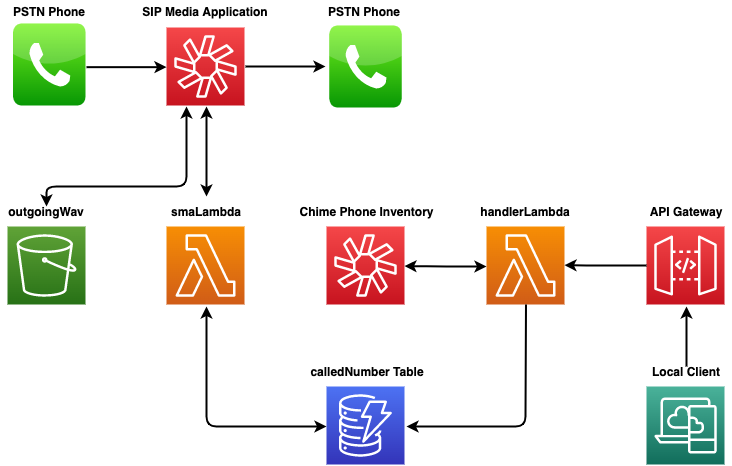
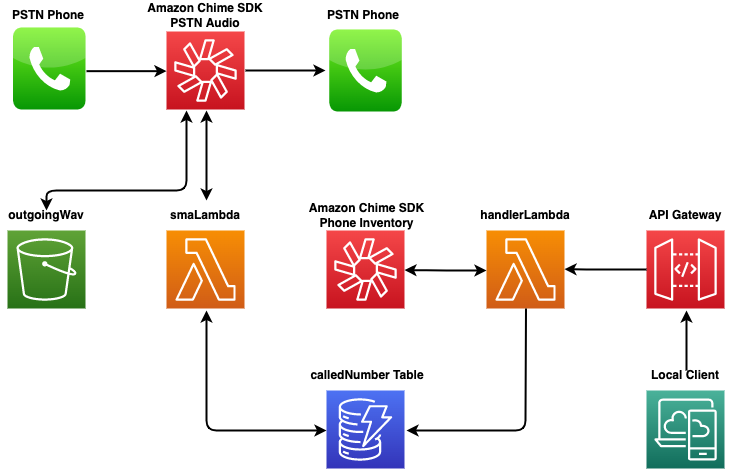
Minor documentation changes

diff --git a/utils/createWav.py b/utils/createWav.py
@@ -10,14 +10,14 @@ def create_polly (polly_text, file_name):
     response = polly.synthesize_speech(
         OutputFormat='pcm',
         Text = polly_text,
-        SampleRate = '8000',
+        SampleRate = '16000',
         VoiceId = 'Joanna'
     )    
 
     if "AudioStream" in response:
         output_wav = '../wav_files/' + file_name + '.wav'
         with wave.open(output_wav, 'wb') as wav_file:
-            wav_file.setparams((1, 2, 8000, 0, 'NONE', 'NONE'))
+            wav_file.setparams((1, 2, 16000, 0, 'NONE', 'NONE'))
             wav_file.writeframes(response['AudioStream'].read())
 
     return output_wav

diff --git a/README.md b/README.md
@@ -1,6 +1,6 @@
-# Call Forwarding with Amazon Chime SIP Media Application
+# Call Forwarding with Amazon Chime SDK PSTN Audio service
 
-This demo will build and configure several services within AWS so that you can forward calls using a Chime SIP Media Application, more specifically the [CallAndBridge](https://docs.aws.amazon.com/chime/latest/dg/call-and-bridge.html) action. A local client can be used to manage the forwarding of numbers.
+This demo will build and configure several services within AWS so that you can forward calls using the Amazon Chime SDK, more specifically the [CallAndBridge](https://docs.aws.amazon.com/chime/latest/dg/call-and-bridge.html) action. A local React client can be used to manage the forwarding of numbers.
 
 ## Overview
 
@@ -33,29 +33,29 @@ This demo will build and configure several services within AWS so that you can f
 
 ## Description
 
-This deployment will build everything required to forward calls and change numbers between different Amazon Chime Product Types. Phone Numbers within Amazon Chime Phone Inventory can have a Product Type of `SipMediaApplicationDialIn` or `VoiceConnector`. The local client can update the Product Type of the phone numbers in the Phone Inventory and update a DynanamoDB table with call forwarding information. A Lambda function associated with the SIP Media Application is used to forward numbers using the [CallandBridge](https://docs.aws.amazon.com/chime/latest/dg/call-and-bridge.html) action.
+This deployment will build everything required to forward calls and change numbers between different Amazon Chime Product Types. Phone Numbers within Amazon Chime Phone Inventory can have a Product Type of `SipMediaApplicationDialIn` or `VoiceConnector`. The local client can update the Product Type of the phone numbers in the Phone Inventory and update a DynanamoDB table with call forwarding information. A Voice application Lambda function written in Python is used to forward numbers using the [CallandBridge](https://docs.aws.amazon.com/chime/latest/dg/call-and-bridge.html) action.
 
 ## Resources Created
 
-- handlerLambda - A Python Lambda that updates the Product Type of numbers in the Amazon Chime Phone Inventory and a DynamoDB. This is fronted by an API Gateway.
-- smaLambda - A Python Lambda that is associated with a SIP Media Application used to forward calls using the CallandBridge action
-- calledNumber Table - A DynamoDB table used to track where numbers should be forwarded to. Updated from the local client and queried by the smaLambda
-- outgoingWav Bucket - S3 bucket to store wav files for playing customized messages
-- SIP Media Application - Chime SMA used to forward calls. Associated with smaHandler Lambda
-- SIP Media Application rule - Chime SMA Rule used to connect the provisioned phone number to the SIP Media Application
-- Voice Connector - Chime Voice Connector used to demonstrate changing Product Types
-- Phone Number - a number provisioned to use with the SIP Media Application rule
+- handlerLambda - A Lambda function written in Python that updates the Product Type of numbers in the Amazon Chime Phone Inventory and adds and removes numbers the DynamoDB table. This is fronted by an API Gateway. 
+- smaLambda - A Lambda function written in Python that is associated with the Amazon Chime SDK PSTN Audio service and used to forward calls using the CallandBridge action
+- calledNumber - A DynamoDB table used to store where numbers should be forwarded to. Managed by the local client and queried by smaLambda function during call setup
+- outgoingWav – An S3 bucket to store wav files for playing customized messages
+- PSTN Audio – Amazon Chime PSTN service used to forward calls. Associated with the smaHandler Lambda function
+- SIP Media Application rule – Amazon Chime SIP Media Application Rule used to route the provisioned phone number to the smaLambda function
+- Voice Connector - Chime Voice Connector used to demonstrate changing Product Types of the phone number
+- Phone Number - A number provisioned to use with the SIP Media Application rule
 
 ## Additional Resources
 
 - utils\createWav.py - Python script to create wav files using Polly
-- wav_files\\\* - wav files uploaded to outgoingWav bucket for use with SMA
+- wav_files\\\* - wav files uploaded to outgoingWav bucket for use with a PSTN Audio voice application
 
 ## Operation
 
 ### Background
 
-You should familiarize yourself with the SipMediaApplication concepts and how one would build a Lambda to control the flow of a call. You can read more here: https://docs.aws.amazon.com/chime/latest/dg/build-lambdas-for-sip-sdk.html
+You can learn more about how to build PSTN-enabled voice applications in the Amazon Chime SDK by consulting our [documentation](https://docs.aws.amazon.com/chime/latest/dg/build-lambdas-for-sip-sdk.html).
 
 ### Phone Number Product Types
 
@@ -65,17 +65,17 @@ Within Amazon Chime, a phone number must have one of three Product Types:
 - VoiceConnector
 - SipMediaApplicationDialIn
 
-In this demonstration, we will not be using the BusinessCalling Product Type but focusing on VoiceConnector and SipMediaApplicationDialIn.
+In this demonstration, we will not be using the BusinessCalling Product Type but focusing on Voice Connector and SipMediaApplicationDialIn.
 
 To forward a number, we will use the SipMediaApplicationDialIn Product Type to route the call to a new phone number. To do this, we must ensure the number is associated with an Amazon Chime SIP Media Application rule. This will route the call to an associated SIP Media Application. This SIP Media Application will invoke the smaLambda and return an action based on the results of a DynamoDB lookup.
 
 ### Changing Product Types
 
-The handlerLambda will change Product Types for you based on the current Product Type and if you are adding a forward or removing a forward. To add a forward to a number, it must be changed to the SipMediaApplicationDialIn Product Type. Conversely, to remove a forward, the Product Type should be changed to VoiceConnector.
+The handlerLambda Lambda function will change Product Types for you based on the current Product Type and if you are adding a forward or removing a forward. To add a forward to a number, it must be changed to the SipMediaApplicationDialIn Product Type. Conversely, to remove a forward, the Product Type should be changed to Voice Connector.
 
 ### Forwarding The Number
 
-When a call is placed to the phone number configured with the SipMediaApplicationDialInWithin Product Type, a SIP Media Application rule will route it to the SIP media application. This will invoke the smaLambda and the CallAndBridge action will be returned to the SIP Media Application. This will forward/bridge the incoming PSTN call to a new outbound call to the E.164 number stored in the DynamoDB.
+When a call is placed to the phone number configured with the SipMediaApplicationDialIn Product Type, a SIP Media Application rule will route it to the PSTN Audio service. This will invoke the smaLambda function and the CallAndBridge action will be returned to the PSTN Audio service. This will forward/bridge the incoming PSTN call to a new outbound call to the E.164 number stored in the DynamoDB.
 
 ```python
 def call_and_bridge_to_pstn(caller_id, destination):
@@ -97,7 +97,7 @@ def call_and_bridge_to_pstn(caller_id, destination):
 
 ### Client - Forwarding a Number
 
-Using the local client, forward a phone number to a different number. This creates a SipMediaApplication rule for the phone number to point to your Lambda, and creates a call forward for the number in the DynamoDB table.
+Using the local React client, forward a phone number to a different number. This creates a SipMediaApplication rule for the phone number to point to your Lambda, and creates a call forward for the number in the DynamoDB table.
 
 - Select 'Forward a Number' Action
 - Select a Number
@@ -107,10 +107,10 @@ Using the local client, forward a phone number to a different number. This creat
 
 ### Client - Removing a Forward
 
-Using the local client, remove an existing call forward. This removes the phone number entry in the DynamoDB table, removes the SipMediaApplication rule for the phone number, and assigns the phone number to a Voice Connector
+Using the local React client, remove an existing call forward. This removes the phone number entry in the DynamoDB table, removes the SipMediaApplication rule for the phone number, and assigns the phone number to a Voice Connector
 
 - Select 'Remove a Forward' Action
-- Select a Number associated with an SMA
+- Select the Number associated with your PSTN Audio voice application
 - Select a Voice Connector to associate the number to
 
 ![Example Remove Forward](images/RemoveForward.png)
